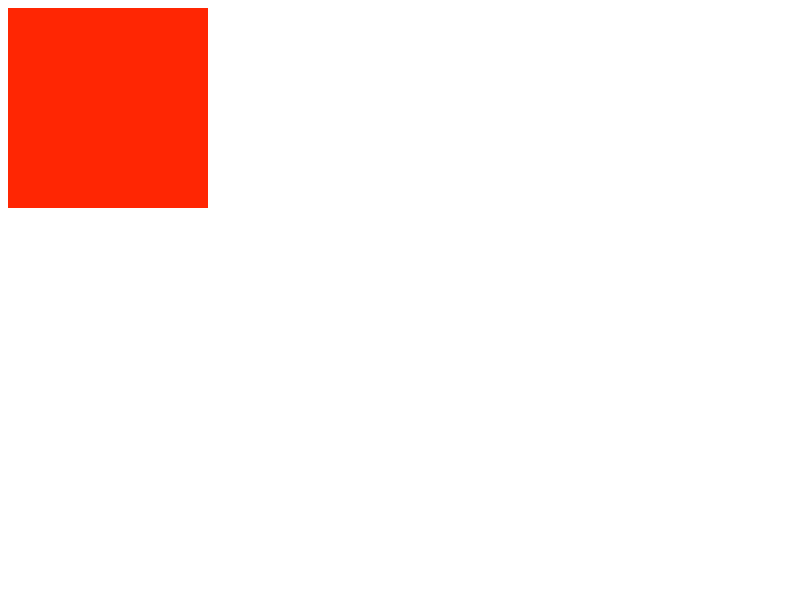
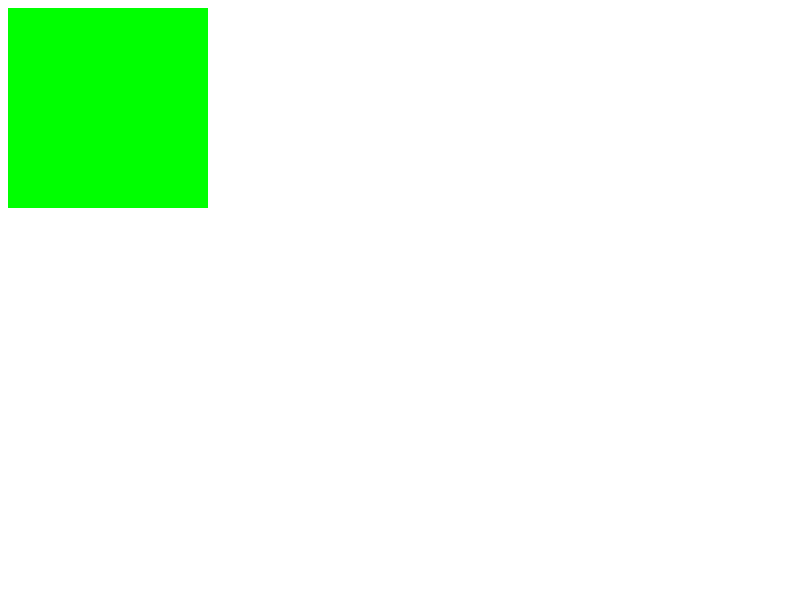
Fix this test to wait for the load event before dumping. Expected image changes.
* compositing/images/content-image-change.html:
* platform/mac/compositing/images/content-image-change-expected.png:

Identifier: 158121@main
git-svn-id: https://svn.webkit.org/repository/webkit/trunk@178004 268f45cc-cd09-0410-ab3c-d52691b4dbfc

Changed region(s): [[0.0, 0.0, 0.2812, 0.36]]

diff --git a/LayoutTests/compositing/images/content-image-change.html b/LayoutTests/compositing/images/content-image-change.html
@@ -21,12 +21,11 @@
 
         window.setTimeout(function() {
             // Change the contents to green.
[1 lines of base64/hex data omitted]
-            if (window.testRunner) {
-                window.setTimeout(function() {
+            image.addEventListener('load', function() {
+                if (window.testRunner)
                     testRunner.notifyDone();
-                }, 0);
-            }
+            }, false);
[1 lines of base64/hex data omitted]
         }, 0);
     }
 
